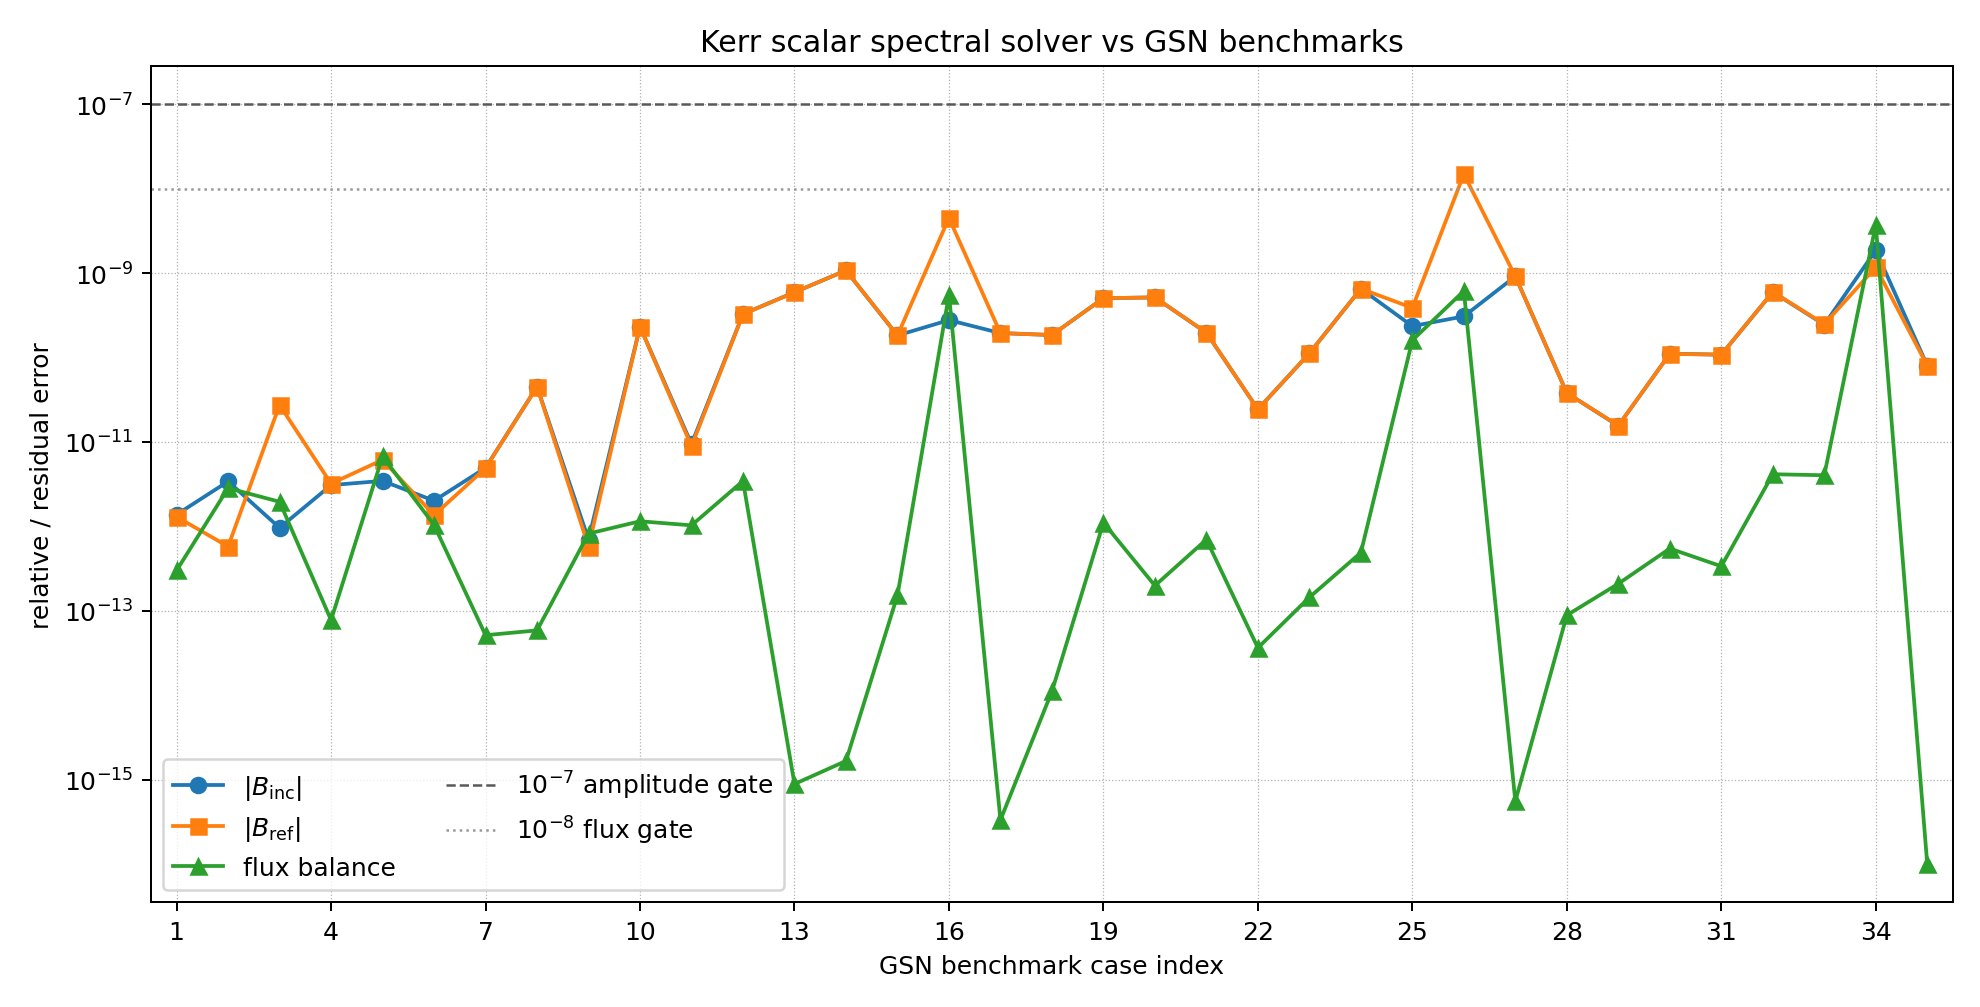
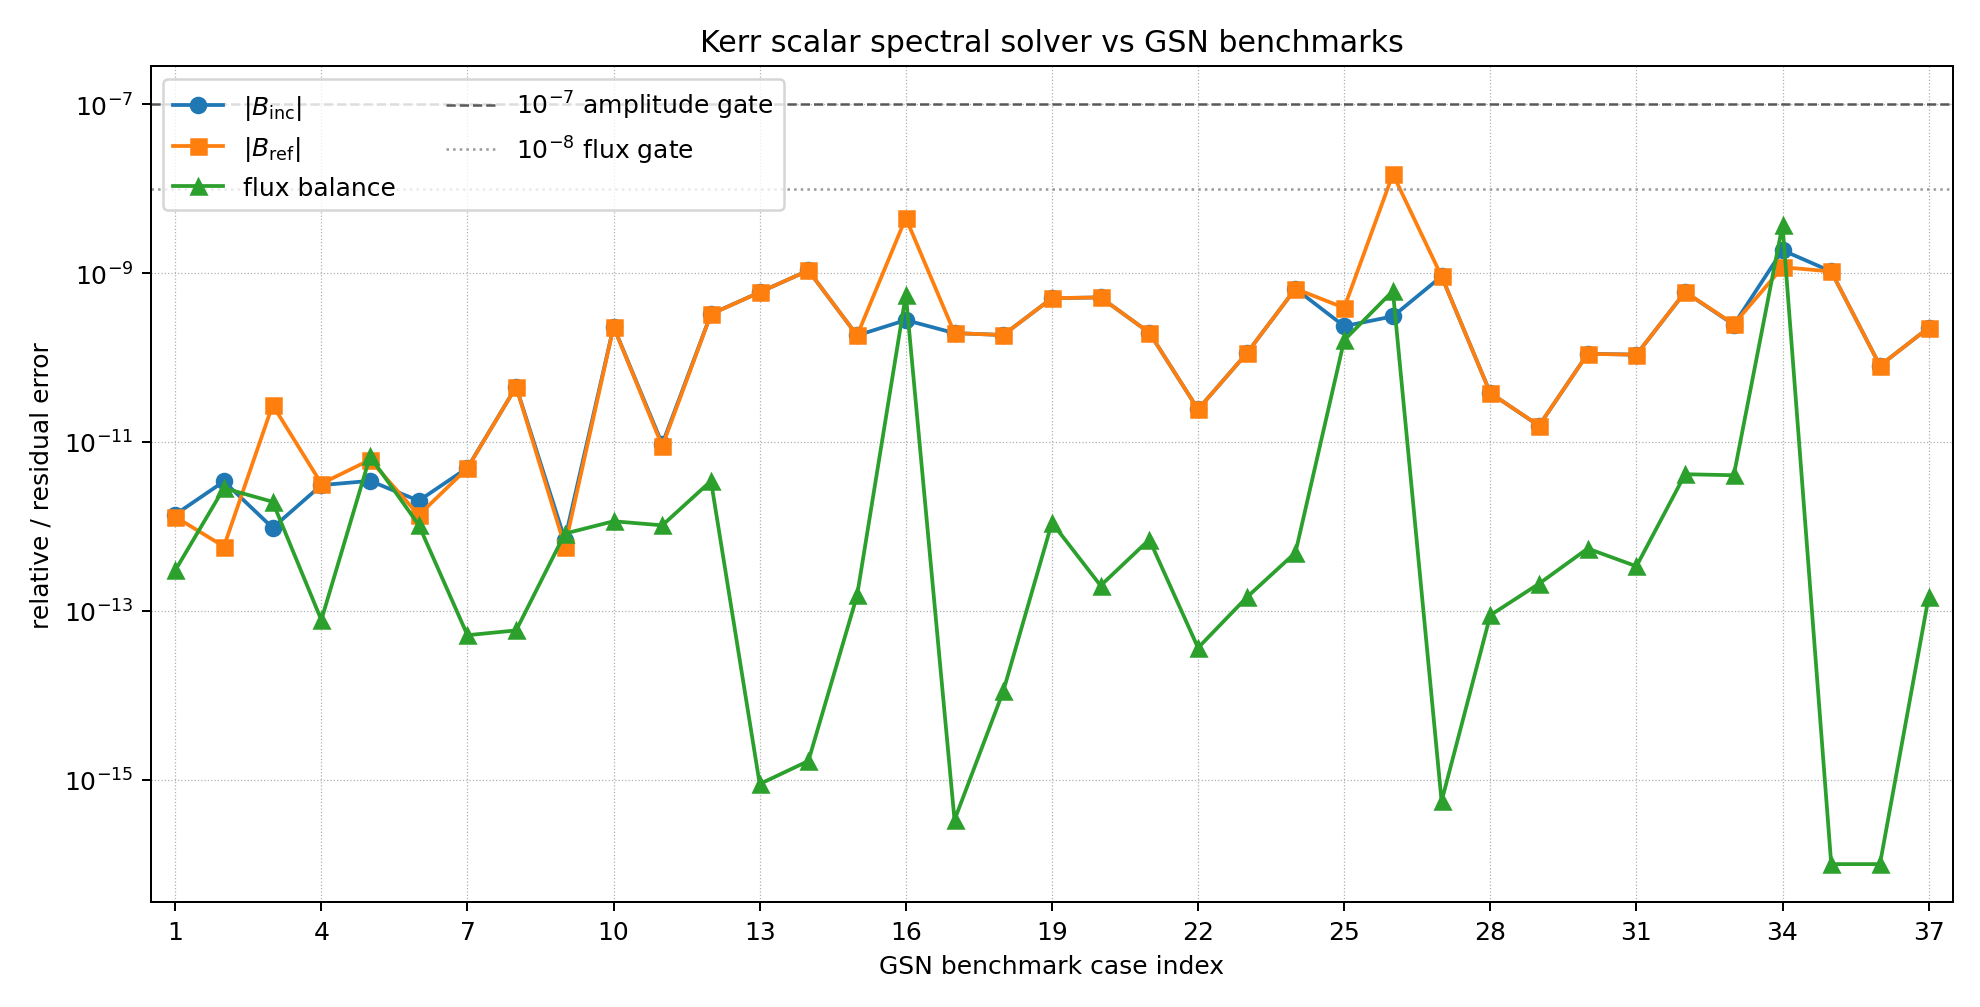
Add GSN fallback validation cases

diff --git a/scripts/build_kerr_scalar_validation_report.py b/scripts/build_kerr_scalar_validation_report.py
@@ -207,8 +207,6 @@ def main():
         "",
         "## Remaining PRD-level work",
         "",
-        "- Cross-check the two excluded high-spin `l=3` GSN cases with an",
-        "  independent benchmark route before including them in production tables.",
         "- Carry the nonlinear Green-function correction over from the Schwarzschild",
         "  project only after the linear solver validation remains stable on a denser",
         "  grid.",

diff --git a/docs/kerr_scalar_validation_report.md b/docs/kerr_scalar_validation_report.md
@@ -38,18 +38,11 @@ balance are the benchmark quantities used for pass/fail validation.
 ## Summary
 
 - GSN benchmark requests: 37
-- Usable GSN benchmark cases tested: 35
-- GSN benchmark cases excluded: 2
+- Usable GSN benchmark cases tested: 37
+- GSN benchmark cases excluded: 0
 - All cases passed: `true`
 - Worst score: `1.485e-08`
 - Worst flux-balance residual: `3.714e-09`
-
-Excluded GSN cases are retained in the benchmark CSV but omitted from
-the pass/fail table because the external package returned zero or
-non-finite amplitudes:
-
-- `l=3, m=2, a=0.9, omega=0.05`: failed: nonfinite-or-zero amplitude from GSN
-- `l=3, m=2, a=0.9, omega=0.6`: failed: nonfinite-or-zero amplitude from GSN
 
 | l | m | a | omega | N | r_match | mapping | rel_abs_B_inc | rel_abs_B_ref | flux | score | passed |
 |---:|---:|---:|---:|---:|---:|:---|---:|---:|---:|---:|:---|
@@ -87,7 +80,9 @@ non-finite amplitudes:
 | 2 | 2 | 0.9 | 0.62 | 128 | 12 | linear | 5.958e-10 | 5.980e-10 | 4.145e-12 | 5.980e-10 | true |
 | 2 | 2 | 0.9 | 0.65 | 160 | 25 | linear | 2.447e-10 | 2.483e-10 | 4.032e-12 | 2.483e-10 | true |
 | 2 | 2 | 0.9 | 0.9 | 224 | 10 | linear | 1.863e-09 | 1.173e-09 | 3.714e-09 | 3.714e-09 | true |
+| 3 | 2 | 0.9 | 0.05 | 96 | 20 | sinh | 1.045e-09 | 1.045e-09 | 0.000e+00 | 1.045e-09 | true |
 | 3 | 2 | 0.9 | 0.2 | 224 | 6 | linear | 8.015e-11 | 8.015e-11 | 0.000e+00 | 8.015e-11 | true |
+| 3 | 2 | 0.9 | 0.6 | 128 | 20 | linear | 2.250e-10 | 2.251e-10 | 1.458e-13 | 2.251e-10 | true |
 
 ## Frequency sweep
 
@@ -131,8 +126,6 @@ remain below the acceptance gate.
 
 ## Remaining PRD-level work
 
-- Cross-check the two excluded high-spin `l=3` GSN cases with an
-  independent benchmark route before including them in production tables.
 - Carry the nonlinear Green-function correction over from the Schwarzschild
   project only after the linear solver validation remains stable on a denser
   grid.

diff --git a/README.md b/README.md
@@ -91,7 +91,7 @@ Green-function method to scalar (`s=0`) Teukolsky modes on Kerr:
   across packages.
 - `scripts/adaptive_kerr_scalar_gsn_validation.py`: scans Chebyshev order and
   matching radius for each usable GSN case; the summary table currently
-  verifies 35 cases with all amplitude-magnitude errors below `1e-7`.
+  verifies 37 cases with all amplitude-magnitude errors below `1e-7`.
 - `scripts/run_kerr_scalar_frequency_sweep.py`: computes self-converged
   Schwarzschild and Kerr frequency sweeps for `R`, `T`, and superradiant
   amplification using the same endpoint-collocation spectral route.
